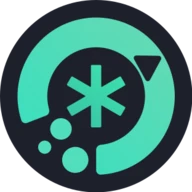
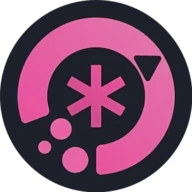
Atualiza o ii-windows pra 0.9.2.2, com a página em rosa no Outubro Rosa

diff --git a/apps/illogicalwindows/index.html b/apps/illogicalwindows/index.html
@@ -77,15 +77,15 @@
 				--bg: #f7f8fa;
 				--bg-alt: #eef1f4;
 				--surface: #ffffff;
-				--surface-tint: #f1f9f6;
+				--surface-tint: #fff8fb;
 				--line: rgba(16, 24, 32, 0.1);
 				--line-strong: rgba(16, 24, 32, 0.18);
 				--text: #14171c;
 				--muted: #5a626e;
-				--accent: #3ddbb0;
-				--accent-ink: #0b7d64;
-				--accent-soft: rgba(61, 219, 176, 0.14);
-				--on-accent: #032a20;
+				--accent: #e4509a;
+				--accent-ink: #82174d;
+				--accent-soft: rgba(228, 80, 154, 0.14);
+				--on-accent: #2c0719;
 				--header-bg: rgba(247, 248, 250, 0.94);
 				--shadow: 0 1px 2px rgba(16, 24, 32, 0.05), 0 10px 30px rgba(16, 24, 32, 0.07);
 				--shadow-lg: 0 2px 6px rgba(16, 24, 32, 0.06), 0 30px 70px rgba(16, 24, 32, 0.14);
@@ -106,15 +106,15 @@
 					--bg: #0e1013;
 					--bg-alt: #13161a;
 					--surface: #171a1f;
-					--surface-tint: #142420;
+					--surface-tint: #25161e;
 					--line: rgba(255, 255, 255, 0.08);
 					--line-strong: rgba(255, 255, 255, 0.16);
 					--text: #eceff3;
 					--muted: #9ba4af;
-					--accent: #4fd8b5;
-					--accent-ink: #5fe0bf;
-					--accent-soft: rgba(79, 216, 181, 0.12);
-					--on-accent: #04261d;
+					--accent: #e160a1;
+					--accent-ink: #e970ad;
+					--accent-soft: rgba(225, 96, 161, 0.12);
+					--on-accent: #280818;
 					--header-bg: rgba(14, 16, 19, 0.94);
 					--shadow: 0 1px 2px rgba(0, 0, 0, 0.3), 0 10px 30px rgba(0, 0, 0, 0.3);
 					--shadow-lg: 0 2px 6px rgba(0, 0, 0, 0.35), 0 30px 70px rgba(0, 0, 0, 0.5);
@@ -1332,7 +1332,7 @@
 
 					<!-- Versao atual: atualizar junto com cada release (VERSION do ii-windows). -->
 					<ul class="facts">
-						<li><span data-i18n="iw.hero.versionLabel">Version</span> <strong>0.9.2.1</strong> <span class="rel-name">— Sleepwalking Toaster</span></li>
+						<li><span data-i18n="iw.hero.versionLabel">Version</span> <strong>0.9.2.2</strong> <span class="rel-name">— Melomaniac Aviator</span></li>
 						<li data-i18n="iw.hero.requirements">Windows 11, or Windows 10 version 2004+ (22H2 recommended)</li>
 						<li data-i18n="iw.hero.free">Free and open source, GPL-3.0</li>
 					</ul>
@@ -1996,10 +1996,18 @@
 					<ol class="releases">
 						<li>
 							<div class="rel-head">
+								<span class="rel-ver">0.9.2.2</span>
+								<span class="rel-name">Melomaniac Aviator</span>
+								<time datetime="2026-10-12">2026-10-12</time>
+								<span class="rel-latest" data-i18n="iw.releases.latest">Latest</span>
+							</div>
+							<p data-i18n="iw.releases.v0922">Melomaniac Aviator is a round of fixes: applying a preset with the dock on the side no longer freezes the shell, emoji search puts exact matches first, each visual style keeps its own bar layout, desktop widgets land in a free spot and take the keyboard right away, the bar says Desktop when nothing is focused, and a new option hides the computer name.</p>
+						</li>
+						<li>
+							<div class="rel-head">
 								<span class="rel-ver">0.9.2.1</span>
 								<span class="rel-name">Sleepwalking Toaster</span>
 								<time datetime="2026-10-11">2026-10-11</time>
-								<span class="rel-latest" data-i18n="iw.releases.latest">Latest</span>
 							</div>
 							<p data-i18n="iw.releases.v0921">Sleepwalking Toaster fixes four more reports: panels open on the monitor your mouse is on and stay there, the end4-pC settings card gets a close button, starting a recording closes the region selector on the other monitors, and media cover art matches the song again.</p>
 						</li>

diff --git a/filearchive/i18n/dict/illogicalwindows.js b/filearchive/i18n/dict/illogicalwindows.js
@@ -257,6 +257,7 @@ export const pt = {
   "iw.releases.namingNote": "A partir de agora, todo release ganha um nome. Os anteriores são Sem nome.",
   "iw.releases.latest": "Mais recente",
   "iw.releases.unnamed": "Sem nome",
+  "iw.releases.v0922": "Melomaniac Aviator é uma rodada de correções: aplicar um preset com a dock na lateral não trava mais o shell, a busca de emoji mostra primeiro o resultado exato, cada estilo guarda o próprio layout da barra, os widgets da área de trabalho vão para um espaço livre e já pegam o teclado, a barra mostra Desktop quando nada está em foco e uma opção nova esconde o nome do computador.",
   "iw.releases.v0921": "Sleepwalking Toaster corrige mais quatro relatos: os painéis abrem no monitor onde está o mouse e continuam lá, o cartão de configurações do end4-pC ganha um botão de fechar, começar uma gravação fecha o seletor de região nos outros monitores e a capa da mídia volta a bater com a música.",
   "iw.releases.v092": "Caffeinated Pigeon deixa o texto mais limpo: ele é desenhado com antialiasing em tons de cinza, como o ii no Linux, sem as franjas coloridas do ClearType e as letras irregulares em escalas como 150%. As Configurações também ganham uma opção para continuar abertas quando você clica fora do cartão do end4-pC.",
   "iw.releases.v091": "Haunted Spatula corrige os primeiros relatos depois do Exploding Baby: o dock, a barra e o overview mostram o ícone de verdade de cada app em vez de uma engrenagem genérica, os fixados padrão são o Explorador de Arquivos e o Terminal do Windows, os painéis abrem no monitor que você está usando, recortes de tela no segundo monitor vão para a área de transferência e a barra flutuante perde o contorno quando o fundo está desligado.",

diff --git a/filearchive/i18n/dict/home.js b/filearchive/i18n/dict/home.js
@@ -107,7 +107,7 @@ export const pt = {
   "p.ii-windows.title": "ii no Windows",
   "p.ii-windows.tagline":
     "O desktop illogical-impulse do end-4, feito em Quickshell, portado do Hyprland para o Windows 11 e 10.",
-  "p.ii-windows.status": "Versão experimental · v0.9.2.1 — Sleepwalking Toaster",
+  "p.ii-windows.status": "Versão experimental · v0.9.2.2 — Melomaniac Aviator",
   "p.ii-windows.d0":
     "O illogical-impulse (ii) é o shell de desktop em Quickshell que o end-4 fez para o Hyprland: a barra, as barras laterais, o overview e os widgets. Este port faz ele rodar num desktop de verdade do Windows, 11 ou 10, e chegar lá exige dois forks.",
   "p.ii-windows.d1":

diff --git a/index.html b/index.html
@@ -2784,7 +2784,7 @@
             slug: "ii-windows",
             title: "ii on Windows",
             tagline: "end-4's illogical-impulse Quickshell desktop, ported from Hyprland to Windows 11 and 10.",
-            status: "Early release · v0.9.2.1 — Sleepwalking Toaster",
+            status: "Early release · v0.9.2.2 — Melomaniac Aviator",
             tags: ["C++", "C++/WinRT", "Qt 6 / QML", "Quickshell"],
             image: "./filearchive/projects/ii-windows/thumb.webp",
             cover: { src: "./filearchive/projects/ii-windows/cover.webp", w: 760, h: 475 },
